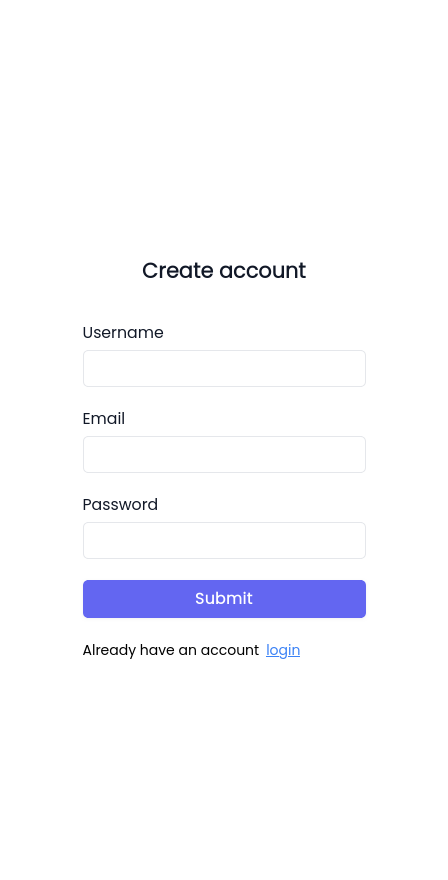
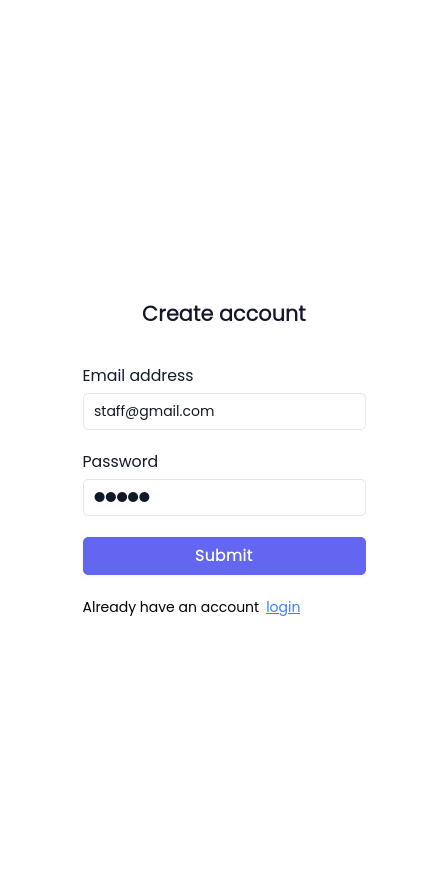
Changed the user login and register fields to user custom model(email as username)

diff --git a/react/src/pages/Register.tsx b/react/src/pages/Register.tsx
@@ -7,13 +7,12 @@ export default function Register() {
   const register = (event: React.FormEvent<HTMLFormElement>) => {
     event.preventDefault()
     const formData = new FormData(event.currentTarget)
-    const username = formData.get("username")
     const email = formData.get("email")
     const password = formData.get("password")
     const url = "http://localhost:8000/accounts/register/"
 
     axios
-      .post(url, { username: username, email: email, password: password })
+      .post(url, { email: email, password: password })
       .then(() => navigate("/login"))
       .catch((err) => {
         console.log(err.response.data.error)
@@ -33,27 +32,10 @@ export default function Register() {
           <form className="space-y-6" onSubmit={register} method="POST">
             <div>
               <label
-                htmlFor="username"
-                className="block text-lg font-medium leading-6 text-gray-900"
-              >
-                Username
-              </label>
-              <div className="mt-2">
-                <input
-                  id="username"
-                  name="username"
-                  type="text"
-                  className="block w-full rounded-md border-[1px] py-2 px-3 outline-none text-gray-900"
-                />
-              </div>
-            </div>
-
-            <div>
-              <label
                 htmlFor="email"
                 className="block text-lg font-medium leading-6 text-gray-900"
               >
-                Email
+                Email address
               </label>
               <div className="mt-2">
                 <input

diff --git a/react/src/pages/Login.tsx b/react/src/pages/Login.tsx
@@ -7,12 +7,12 @@ export default function Login() {
   const login = (event: React.FormEvent<HTMLFormElement>) => {
     event.preventDefault()
     const formData = new FormData(event.currentTarget)
-    const username = formData.get("username")
+    const email = formData.get("email")
     const password = formData.get("password")
     const url = "http://localhost:8000/accounts/login/"
 
     axios
-      .post(url, { username: username, password: password })
+      .post(url, { email: email, password: password })
       .then((res) => res.data)
       .then((data) => {
         const access = data["access"]
@@ -42,13 +42,13 @@ export default function Login() {
                 htmlFor="username"
                 className="block text-lg font-medium leading-6 text-gray-900"
               >
-                Username
+                Email Address
               </label>
               <div className="mt-2">
                 <input
-                  id="username"
-                  name="username"
-                  type="text"
+                  id="email"
+                  name="email"
+                  type="email"
                   className="block w-full rounded-md border-[1px] py-2 px-3 outline-none text-gray-900"
                 />
               </div>

diff --git a/react/src/pages/Create.tsx b/react/src/pages/Create.tsx
@@ -8,7 +8,7 @@ export default function Create() {
     title: "",
     description: "",
     completed: false,
-    priority: "",
+    priority: "High",
   })
 
   const navigate = useNavigate()
@@ -96,7 +96,6 @@ export default function Create() {
         </div>
         <div>
           <label
-            htmlFor="username"
             className="block text-lg font-medium leading-6 text-gray-900"
           >
             Completed

diff --git a/accounts/migrations/0001_initial.py b/accounts/migrations/0001_initial.py
@@ -1,0 +1,34 @@
+# Generated by Django 4.2.7 on 2023-12-11 15:03
+
+from django.db import migrations, models
+import django.utils.timezone
+
+
+class Migration(migrations.Migration):
+
+    initial = True
+
+    dependencies = [
+        ('auth', '0012_alter_user_first_name_max_length'),
+    ]
+
+    operations = [
+        migrations.CreateModel(
+            name='User',
+            fields=[
+                ('id', models.BigAutoField(auto_created=True, primary_key=True, serialize=False, verbose_name='ID')),
+                ('password', models.CharField(max_length=128, verbose_name='password')),
+                ('email', models.EmailField(blank=True, max_length=254, unique=True, verbose_name='email address')),
+                ('is_staff', models.BooleanField(default=False)),
+                ('is_active', models.BooleanField(default=True)),
+                ('date_joined', models.DateTimeField(default=django.utils.timezone.now, verbose_name='date joined')),
+                ('is_superuser', models.BooleanField(default=False)),
+                ('last_login', models.DateTimeField(auto_now=True)),
+                ('groups', models.ManyToManyField(blank=True, help_text='The groups this user belongs to. A user will get all permissions granted to each of their groups.', related_name='user_set', related_query_name='user', to='auth.group', verbose_name='groups')),
+                ('user_permissions', models.ManyToManyField(blank=True, help_text='Specific permissions for this user.', related_name='user_set', related_query_name='user', to='auth.permission', verbose_name='user permissions')),
+            ],
+            options={
+                'abstract': False,
+            },
+        ),
+    ]

diff --git a/api/migrations/0001_initial.py b/api/migrations/0001_initial.py
@@ -1,4 +1,4 @@
-# Generated by Django 4.2.7 on 2023-12-07 16:20
+# Generated by Django 4.2.7 on 2023-12-11 15:03
 
 from django.conf import settings
 from django.db import migrations, models
@@ -15,7 +15,7 @@ class Migration(migrations.Migration):
 
     operations = [
         migrations.CreateModel(
-            name='Task',
+            name='Todo',
             fields=[
                 ('id', models.BigAutoField(auto_created=True, primary_key=True, serialize=False, verbose_name='ID')),
                 ('title', models.CharField(max_length=255)),
